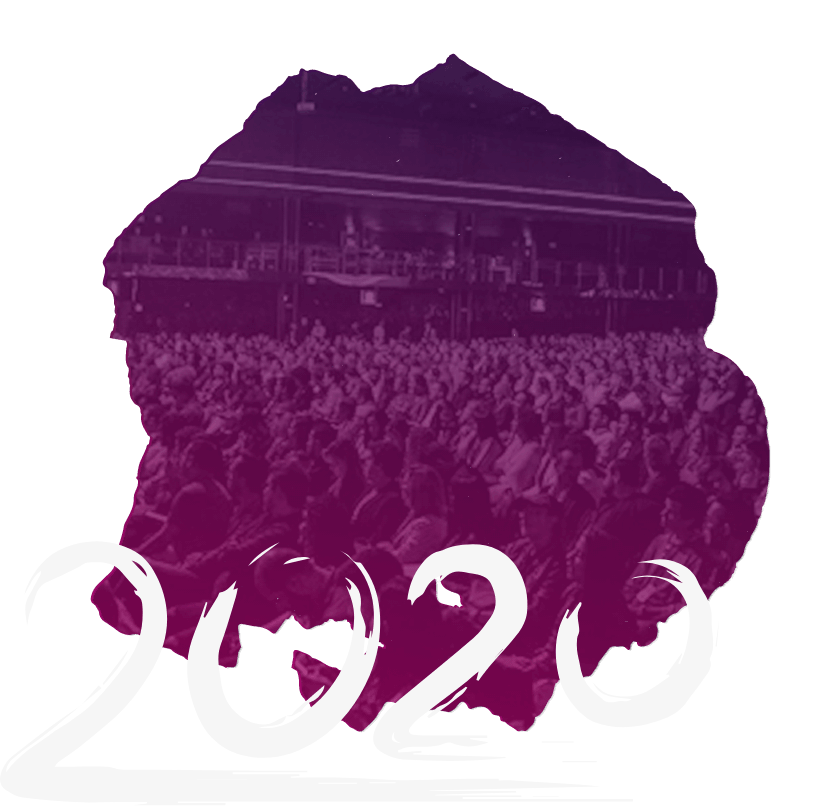
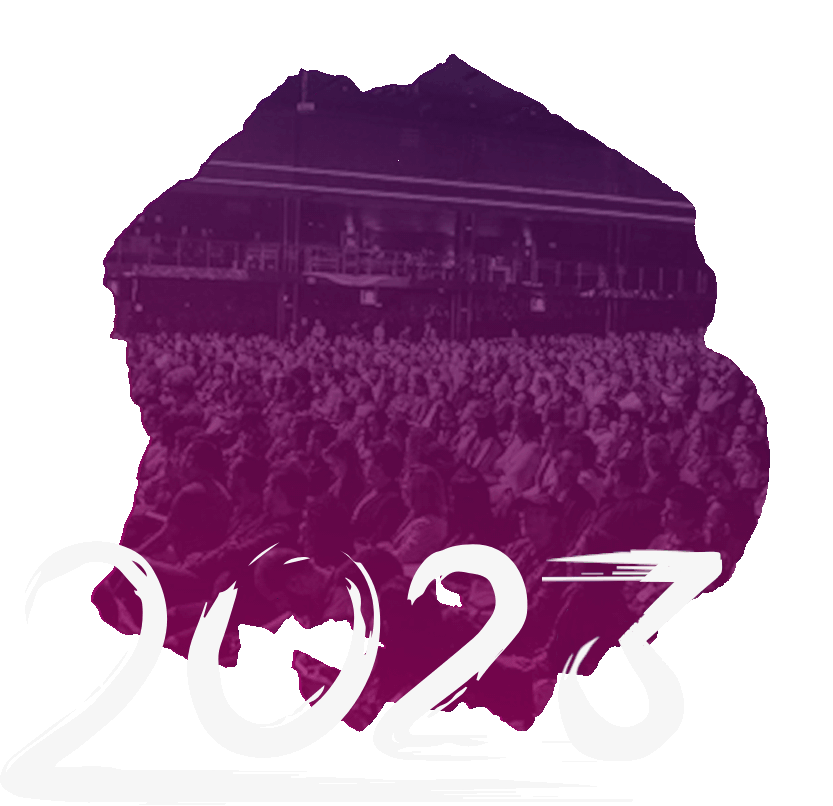
Inclusão do menu lateral, adição das sections que faltavam, criação de modal para mostrar o código de conduta, atualização da imagem com ano do evento.

Changed region(s): [[0.6555, 0.6824, 0.8739, 0.8375]]

diff --git a/index.html b/index.html
@@ -36,18 +36,26 @@
                 <img class="logo-vertical2023" src="assets/img/logo-vertical2023.png" alt="Logo Python Brasil 2023">
                 <p class="header__brand__title text-white text-uppercase">O maior evento Python da América Latina</p>
             </div>
-
+            <div class="header__right">
+                <div class="p-4 pt-5">
+                    <ul class="list-unstyled components mb-5">
+                        <li>
+                            <a href="#about" class="about__group__description spaceBetween float-right text-white">O Evento</a>
+                        </li>
+                        <li>
+                            <a href="#speakers" class="about__group__description spaceBetween float-right text-white">Keynotes</a>
+                        </li>
+                        <li>
+                            <a href="#agenda" class="about__group__description spaceBetween float-right text-white">Programação</a>
+                        </li>
+                        <li>
+                            <a href="#tickets" class="about__group__description spaceBetween float-right text-white">Ingressos</a>
+                        </li>
+                    </ul>
+                </div>
+            </div>
+            <br>
             <div class="container-fluid">
-                <!-- <div class="row justify-content-center">
-                  <div class="col-6">
-                    <div class="alert alert-light footer__group__links__item__link main-transition" role="alert">
-                      <h4 class="alert-heading">Python Brasil 2023 adiada</h4>
-                      <p>Por conta da <strong>COVID-19</strong>, a Python Brasil 2023 foi <strong>adiada</strong> para 2021. Ainda sem data confirmada, o local do evento continua o mesmo, <strong>Caxias do Sul - RS</strong>.</p>
-                      <hr>
-                      <p class="mb-0">Atualizações serão adicionadas nesse site e enviadas em nossas redes sociais.</p>
-                    </div>
-                  </div>
-                </div> -->
                 <div class="row justify-content-center">
                     <div class="col-12 col-md-8">
                         <div class="header__group text-center">
@@ -108,9 +116,7 @@
                 <br>
             </div>
             <br>
-        </main>
 
-        <!-- <main role="main">
             <section class="about" id="about" style="padding: 100px 0;">
                 <div class="container-fluid">
                     <div class="row">
@@ -121,7 +127,7 @@
                                     <h2 class="about__group__title__text title__group__subtitle text-light-purple fw-300">saiba mais</h2>
                                 </div>
 
-                                <p class="about__group__description">A PythonBrasil é o maior evento sobre linguagem de programação Python do Brasil. Feito pela comunidade para a comunidade, tem o objetivo de difundir a linguagem, promover a troca de experiências e manter a comunidade crescendo igualmente em público e impacto social.</p>
+                                <p class="about__group__description">Python Brasil é o maior evento sobre linguagem de programação Python do Brasil. Feito pela comunidade para a comunidade, tem o objetivo de difundir a linguagem, promover a troca de experiências e manter a comunidade crescendo igualmente em público e impacto social.</p>
                                 <p class="about__group__description">São 6 dias de imersão onde os participantes poderão contribuir para projetos de software livre, participar de treinamentos e adquirir novos conhecimentos com desenvolvedores renomados da comunidade.</p>
                                 <p class="about__group__description">Este ano, está sendo organizada pela comunidade Python de Caxias do Sul/RS com o apoio da APyB (Associação Python Brasil).</p>
                             </div>
@@ -131,7 +137,7 @@
                 <img class="about__image" src="assets/img/image-about.png" alt="Imagem de uma plateia com gradiente rosa por cima. Abaixo está escrito em branco '2023'">
             </section>
 
-            <section class="speakers">
+            <section class="speakers" id="speakers">
                 <div class="container-fluid">
                     <div class="row">
                         <div class="col-12 offset-0 col-md-5 offset-md-6">
@@ -139,6 +145,26 @@
                                 <div class="speakers__group__title title__group">
                                     <h1 class="speakers__group__title__text title__group__title font-alice text-white" style="opacity: .1;">Keynotes</h1>
                                     <h2 class="speakers__group__title__text title__group__subtitle text-light-purple fw-300">o time</h2>
+                                </div>
+                            </div>
+                        </div>
+                        <div class="col-12 offset-0 col-md-4 offset-md-8">
+                            <div class="speakers__soon text-white">
+                                <p class="speakers__soon__text text-uppercase">Em breve</p>
+                            </div>
+                        </div>
+                    </div>
+                </div>
+            </section>
+
+            <section class="speakers" id="agenda">
+                <div class="container-fluid">
+                    <div class="row">
+                        <div class="col-12 offset-0 col-md-5 offset-md-6">
+                            <div class="speakers__group">
+                                <div class="speakers__group__title title__group">
+                                    <h1 class="speakers__group__title__text title__group__title font-alice text-white" style="opacity: .1;">Programação</h1>
+                                    <h2 class="speakers__group__title__text title__group__subtitle text-light-purple fw-300">do evento</h2>
                                 </div>
                             </div>
                         </div>
@@ -175,15 +201,16 @@
                         <div class="col-12 offset-0 col-md-5 offset-md-3 offset-lg-6">
                             <div class="sponsors__group__cta">
                                 <h4 class="sponsors__group__cta__title fw-700 text-white">Quer ser um(a) parceiro(a)?</h4>
-                                <a class="sponsors__group__cta__btn main-transition" href="https://drive.google.com/open?id=1CTaBIXGERsF9hI9i9o_SXKwzDgVkIuEF" target="_blank">Saiba mais</a>
+                                <a class="sponsors__group__cta__btn main-transition" onclick="window.open('patrocinio_python_brasil_2023.pdf','_blank'); this.blur(); return false;"
+                                target="_blank">Saiba mais</a>
                             </div>
                         </div>
                     </div>
                 </div>
             </section>
-        </main> -->
+        </main>
 
-        <!-- <footer class="footer">
+        <footer class="footer" id="tickets">
             <div class="footer__group">
                 <div class="footer__group__disclaimer">
                     <h1 class="footer__group__disclaimer__text text-white">PythonBrasil is a non-profit volunteer-driv conference for promoting the open source Python programming language. It is supported by the Brazilian Python Association (APyB) and by the Python Software Foundation (PSF).</h1>
@@ -197,27 +224,77 @@
 
                     <div class="footer__group__links__item">
                         <h2 class="footer__group__links__item__title text-uppercase text-light-purple">Ajuda</h2>
-                        <a class="footer__group__links__item__link main-transition" href="https://github.com/pythonbrasil/codigo-de-conduta" target="_blank">Código de Conduta</a>
+                        <a class="footer__group__links__item__link main-transition" type="button" class="btn btn-primary" data-toggle="modal" data-target="#myModal">Código de Conduta</a>
                     </div>
 
                     <div class="footer__group__links__item">
                         <h2 class="footer__group__links__item__title text-uppercase text-light-purple">Patrocínios</h2>
-                        <a class="footer__group__links__item__link main-transition" href="https://drive.google.com/open?id=1CTaBIXGERsF9hI9i9o_SXKwzDgVkIuEF" target="_blank">Quero Patrocinar</a>
+                        <a class="footer__group__links__item__link main-transition" onclick="window.open('patrocinio_python_brasil_2023.pdf','_blank'); this.blur(); return false;"
+                        target="_blank">Quero Patrocinar</a>
                     </div>
 
                     <div class="footer__group__links__item">
                         <h2 class="footer__group__links__item__title text-uppercase text-light-purple">Ingressos</h2>
-                        <a class="footer__group__links__item__link footer__group__links__item__link--btn main-transition" href="#" style="cursor: not-allowed;">
+                        <a class="footer__group__links__item__link footer__group__links__item__link--btn main-transition blinkMe"
+                        onclick="window.open('https://www.eventbrite.com.br/e/python-brasil-2023-registration-576537738897','_blank'); this.blur(); return false;"
+                        target="_blank" href="#" style="cursor: not-allowed;">
                             <img class="footer__group__links__item__link--btn__icon" src="assets/svg/icon-coupon.svg" alt="Ícone de 2 ingressos com fundo transparente e bordas brancas" width="26">
-                            Ingressos em breve
+                            Ingressos
                         </a>
                     </div>
                 </div>
             </div>
-        </footer> -->
+        </footer>
 
-        <!-- <img class="full-image-bottom" src="assets/img/detail-sponsors.png" alt="Homem palestrando, segurando microfone, de costas e olhando para o público"> -->
+        <img class="full-image-bottom" src="assets/img/detail-sponsors.png" alt="Homem palestrando, segurando microfone, de costas e olhando para o público">
 
+        <!-- The Modal -->
+        <div class="modal fade" id="myModal">
+            <div class="modal-dialog modal-xl modal-lg modal-sm modal-dialog-scrollable">
+                <div class="modal-content">
+                    <!-- Modal Header -->
+                    <div class="modal-header">
+                        <h4 class="modal-title">Código de Conduta</h4>
+                        <button type="button" class="close" data-dismiss="modal">&times;</button>
+                    </div>
+                    <!-- Modal body -->
+                    <div class="modal-body">
+                        <div w3-include-html="assets/data/codigo_conduta.html"></div>
+                    </div>
+                </div>
+            </div>
+        </div>
+
+        <script>
+            function includeHTML() {
+                var z, i, elmnt, file, xhttp;
+                /*loop through a collection of all HTML elements:*/
+                z = document.getElementsByTagName("*");
+                for (i = 0; i < z.length; i++) {
+                    elmnt = z[i];
+                    /*search for elements with a certain attribute:*/
+                    file = elmnt.getAttribute("w3-include-html");
+                    if (file) {
+                        /*make an HTTP request using the attribute value as the file name:*/
+                        xhttp = new XMLHttpRequest();
+                        xhttp.onreadystatechange = function () {
+                            if (this.readyState == 4) {
+                                if (this.status == 200) { elmnt.innerHTML = this.responseText; }
+                                if (this.status == 404) { elmnt.innerHTML = "Page not found."; }
+                                /*remove the attribute, and call this function once more:*/
+                                elmnt.removeAttribute("w3-include-html");
+                                includeHTML();
+                            }
+                        }
+                        xhttp.open("GET", file, true);
+                        xhttp.send();
+                        /*exit the function:*/
+                        return;
+                    }
+                }
+            };
+            includeHTML();
+        </script>
         <script src="assets/js/jquery-3.4.1.min.js"></script>
         <script src="assets/js/bootstrap.min.js"></script>
     </body>

diff --git a/assets/data/codigo_conduta.html b/assets/data/codigo_conduta.html
@@ -1,0 +1,60 @@
+<html><head><style>body {
+   color: black;
+}
+</style></head><body><h1 id="c-digo-de-conduta-do-evento-python-brasil">Código de Conduta do Evento Python Brasil</h1>
+<p>O evento Python Brasil é um ambiente amistoso, de boa convivência, inclusivo e livre de intimidação, onde todas as pessoas são bem-vindas e a civilidade é exigida.</p>
+<p>Com esta finalidade, a organização do evento conta com uma Equipe de Resposta que atua para garantir um ambiente com essas qualidades.</p>
+<p>Por isso:</p>
+<ol>
+<li>Não é tolerado nenhum tipo de assédio, discriminação inapropriada ou humilhação pública;</li>
+<li>Não é tolerado o descumprimento das leis brasileiras;</li>
+<li>Toda pessoa presente no evento, independente do seu papel, está sujeita a estas regras;</li>
+</ol>
+<p>Desta forma, entendemos que:</p>
+<ul>
+<li>Assédio é a ação de insistir, perseguir ou coagir outra pessoa a um comportamento involuntário.</li>
+<li>Discriminação inapropriada é o ato de separar, injuriar ou humilhar alguém promovendo sua exclusão por atributo particular da mesma.</li>
+<li>Humilhação pública é o ato de submeter, rebaixar, ridicularizar ou promover o vexame de outro publicamente.</li>
+</ul>
+<p>O público alvo do evento também inclui crianças e adolescentes, por isso buscamos manter um ambiente apropriado para todas as faixas etárias. Sendo assim, linguagem e imagens sexualizadas não são adequados para palestras e ações promocionais de patrocinadores.</p>
+<p>Se você se sentiu assediado, discriminado indevidamente ou humilhado, ou presenciou alguma destas atitudes, por favor entre em contato com a Equipe de Resposta.</p>
+<p>Havendo um relato de violação destes princípios, a Equipe de Resposta realizará a devida análise e, quando necessário, tomará as ações para impedir a reincidência. Estas ações podem, mas não se restringem nem implicam em ir desde uma conversa em busca da retratação até um convite a se retirar do evento por tempo indeterminado.</p>
+<hr>
+<h1 id="python-brasil-code-of-conduct">Python Brasil Code of Conduct</h1>
+<p>Python Brasil conference is a friendly, inclusive and harassment-free environment where everyone is welcome and where civility is compulsory.</p>
+<p>Conference organizers offer a Response Team acting in order to guarantee such an environment.</p>
+<p>Therefore:</p>
+<ol>
+<li>We will not tolerate harassment, inappropriate discrimination or public humiliation of any kind;</li>
+<li>We will not tolerate non-compliance with Brazilian laws;</li>
+<li>Regardless of their role every person taking part in  the conference is subject to these rules;</li>
+</ol>
+<p>Thus we understand:</p>
+<ul>
+<li>Harassment is the act of insisting, persecuting or coercing someone into involuntary behavior.</li>
+<li>Inappropriate discrimination is the act of pulling apart, insulting or humiliating someone by promoting their exclusion by any particular attribute.</li>
+<li>Public humiliation is the act of subjugating, pulling down, ridiculing or publicly promoting the vexation of others.</li>
+</ul>
+<p>The target audience of the conference also includes children and adolescents thus we stand for a suitable environment for all age groups. In that sense language and sexualized images are not suitable for lectures and promotional actions by sponsors.
+If you feel harassed, discriminated or humiliated, or if you witnessed any of these behaviors, please contact the Response Team.</p>
+<p>In face of any allegation of violation of these principles, the Response Team will examine and consider the case in order to take action to ensure that such events will not happen again. These actions might take the form of a conversation to reconcile the parts, an invitation to leave the event indefinitely or any other form to keep up with the values stated in this Code of Conduct.</p>
+<hr>
+<h1 id="c-digo-de-conducta-del-evento-python-brasil">Código de Conducta del Evento Python Brasil</h1>
+<p>El evento Python Brasil es un ambiente amistoso, de buena convivencia, inclusivo y libre de intimidación, donde todas las personas son bienvenidas y la civilidad es exigida.</p>
+<p>Con esta finalidad, la organización del evento cuenta con un Equipo de Respuesta que actúa para garantizar un ambiente con esas cualidades.</p>
+<p>Por eso:</p>
+<ol>
+<li>No es tolerado ningún tipo de acoso, discriminación inapropiada o humillación pública;</li>
+<li>No es tolerado el incumplimiento de las leyes brasileñas;</li>
+<li>Toda persona presente en el evento, independientemente de su papel, está sujeta a estas reglas;</li>
+</ol>
+<p>De esta forma, entendemos que:</p>
+<ul>
+<li>El acoso es la acción de insistir, perseguir o coaccionar a otra persona a un comportamiento involuntario.</li>
+<li>La discriminación inapropiada es el acto de separar, injuriar o humillar a alguien promoviendo su exclusión por atributo particular de la misma.</li>
+<li>La humillación pública es el acto de someter, rebajar, ridiculizar o promover la vergüenza de otro en público.</li>
+</ul>
+<p>El público-objetivo del evento también incluye a niños y adolescentes, por lo que buscamos mantener un ambiente apropiado para todas las edades. Siendo así, lenguaje e imágenes sexualizadas no son adecuados para conferencias y acciones promocionales de patrocinadores.</p>
+<p>Si usted se siente asediado, discriminado indebidamente o humillado, o ha presenciado alguna de estas actitudes, por favor entre en contacto con el Equipo de Respuesta.</p>
+<p>Habiendo un relato de violación de estos principios, el Equipo de Respuesta realizará el debida análisis y, cuando sea necesario, tomará las acciones para impedir la reincidencia. Estas acciones pueden, pero no se restringen ni implican en ir desde una conversación en busca de la retractación hasta una invitación a retirarse del evento por tiempo indeterminado.</p>
+</body></html>

diff --git a/assets/css/custom.css b/assets/css/custom.css
@@ -236,10 +236,25 @@ body {
     left: 5%;
     top: 10%;
   }
+  .header__right {
+    display: flex;
+    flex-direction: column;
+    align-items: center;
+    justify-content: flex-start;
+    position: absolute;
+    height: 100%;
+    width: 110px;
+    right: 5%;
+    top: 10%;
+  }
 }
 @media screen and (min-width: 1600px) {
   .header__brand {
     left: 8%;
+    top: 20%;
+  }
+  .header__right {
+    right: 8%;
     top: 20%;
   }
 }
@@ -973,4 +988,33 @@ body {
 
 .fontColor {
   color: #FFF;
+}
+
+/* //////////////////////////// */
+.about__group__description.spaceBetween {
+  line-height: 3 !important;
+}
+
+a {
+  text-decoration: none !important;
+}
+
+a:link {
+  text-decoration: none !important;
+}
+
+a:visited {
+  text-decoration: none !important;
+}
+
+a:hover {
+  text-decoration: none !important;
+}
+
+a:active {
+  text-decoration: none !important;
+}
+
+.modal-body {
+  padding-left: 2.5rem;
 }
